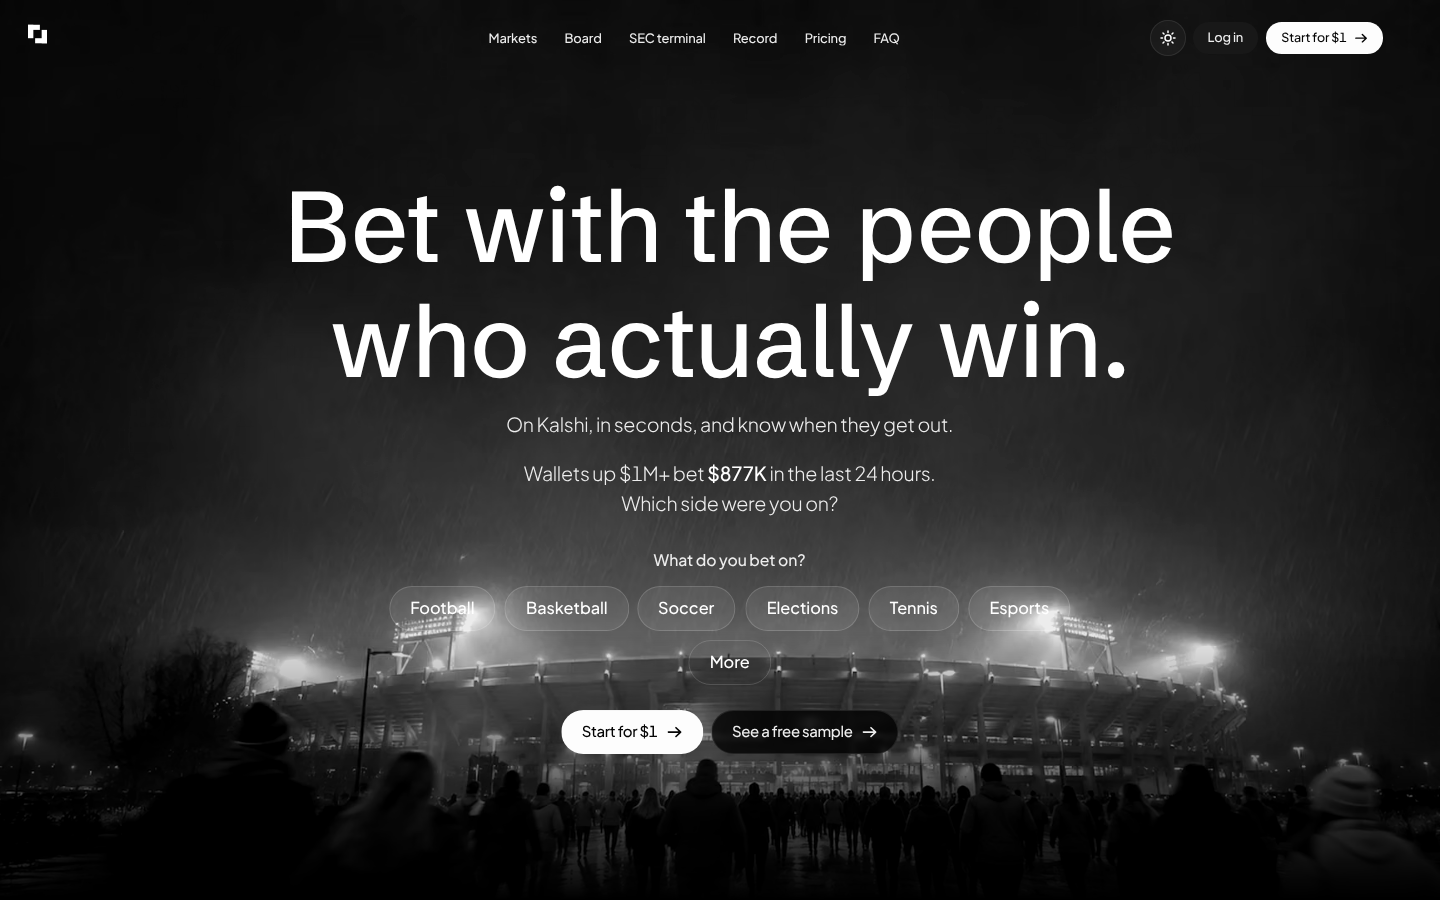
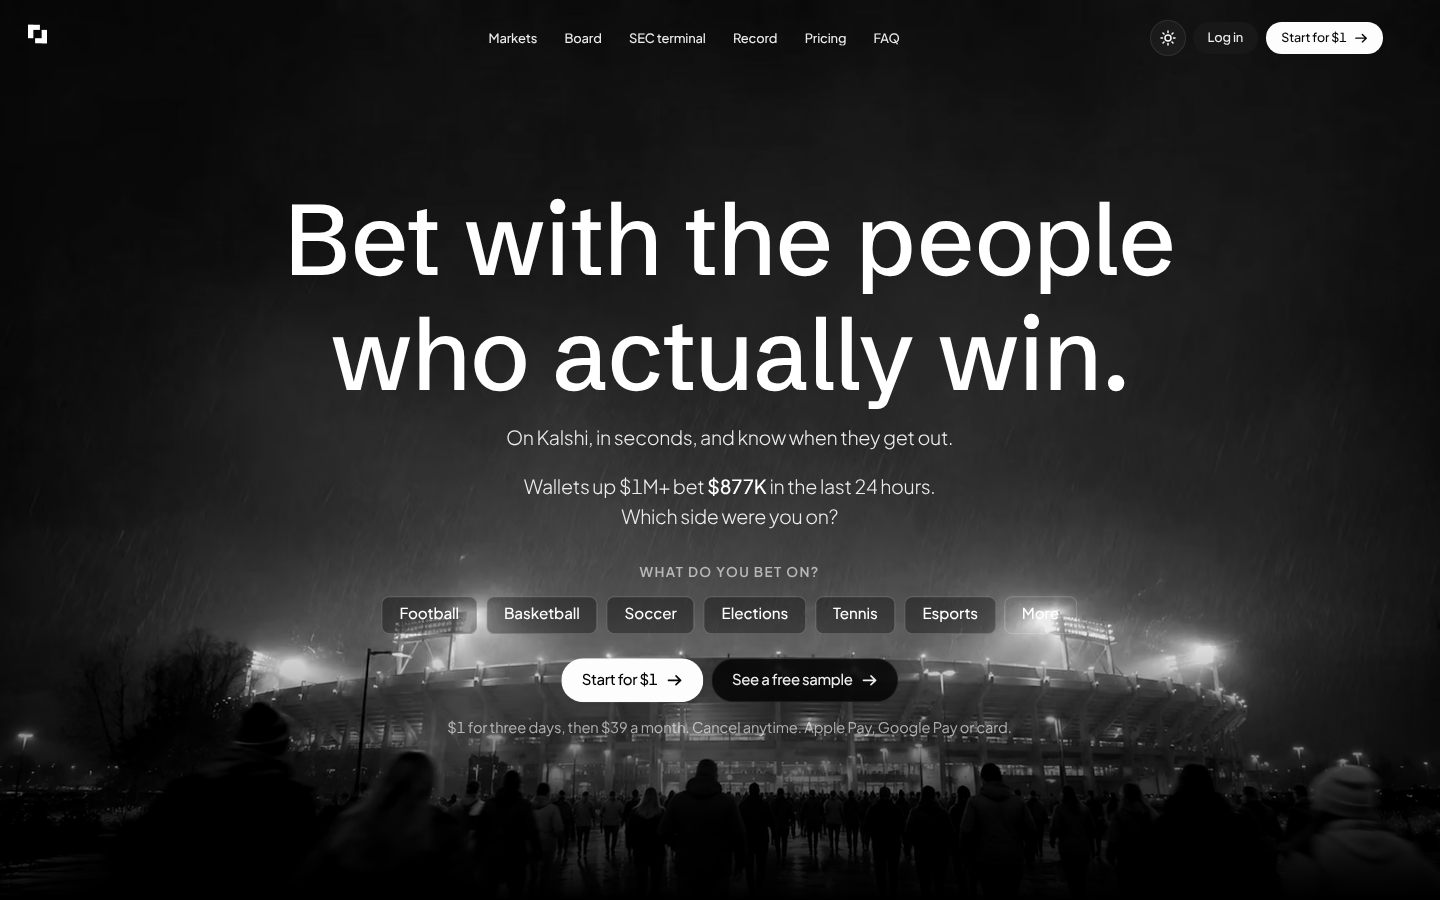
Conversion: a shorter funnel (bet-size question retired, step count from where you came in, no exit links before paying, black-and-white photos), the price terms under the hero's Start for $1, headings always visible at rest
Claude-Session: https://claude.ai/code/session_013t6J84dbkTPdjdMU1vGwgF

Changed region(s): [[0.1875, 0.1867, 0.8125, 0.5911], [0.25, 0.6222, 0.7188, 0.84]]

diff --git a/components/brand/go/Funnel.tsx b/components/brand/go/Funnel.tsx
@@ -30,8 +30,9 @@ const ORDER: Step[] = ["hook", "cats", "where", "size", "building", "aha", "payw
 /** The steps with the picture side (a photo and a live bet beside the question). */
 const ART: Step[] = ["hook", "where", "size", "paywall", "checkout"];
 /** The steps before paying, as the header counts them ("building" plays by itself and isn't a step). */
-const PRE: Step[] = ["hook", "cats", "where", "size", "aha", "paywall", "checkout"];
-export const BACK: Partial<Record<Step, Step>> = { cats: "hook", where: "cats", size: "where", aha: "size", paywall: "aha", checkout: "paywall" };
+// The steps before paying, as the visitor sees them (the bet-size question is retired: its answer was never used).
+const PRE: Step[] = ["hook", "cats", "where", "aha", "paywall", "checkout"];
+export const BACK: Partial<Record<Step, Step>> = { cats: "hook", where: "cats", size: "where", aha: "where", paywall: "aha", checkout: "paywall" };
 const KEY = "insidir_go";
 
 interface Answers { cats: CategorySlug[]; where: Where | null; size: Size | null; remind: boolean; /** Where to land at the end (a check they paid from). */ next?: string | null }
@@ -107,6 +108,8 @@ export function Funnel({ initial, start, now, elementsUrl, signedIn, ageConfirme
   bg: ReactNode;
 }) {
   const [step, setStep] = useState<Step>(start);
+  // Count only the steps this visitor will see: from where they came in (a Start button lands on the first question).
+  const shown = start === "hook" || !PRE.includes(start) ? PRE : PRE.slice(PRE.indexOf(start));
   const [a, setA] = useState<Answers>({ cats: [], where: null, size: null, remind: true });
   const [d, setD] = useState<GoData>(initial);
   const [ticks, setTicks] = useState(0);
@@ -223,7 +226,7 @@ export function Funnel({ initial, start, now, elementsUrl, signedIn, ageConfirme
           <div className="b-answers">
             {list.map(([k, l], i) => (
               <button key={k} type="button" className="b-btn b-btn-lg b-ghost" data-testid="go-answer" data-value={k} {...st(0.5 + i * 0.07)}
-                onClick={() => { if (step === "where") { put({ where: k as Where }); go("size"); } else { put({ size: k as Size }); go("building"); } }}>{l}<Arrow /></button>
+                onClick={() => { if (step === "where") { put({ where: k as Where }); go("building"); } else { put({ size: k as Size }); go("building"); } }}>{l}<Arrow /></button>
             ))}
           </div>
         </GoStage>
@@ -320,7 +323,7 @@ export function Funnel({ initial, start, now, elementsUrl, signedIn, ageConfirme
       {/* The header: the mark in the middle, the step count on the right (before paying; after, it's account setup). */}
       <header className="b-go-top" aria-hidden="true">
         <span className="b-go-top__mark"><Mark /></span>
-        {PRE.includes(step) ? <span className="b-go-top__n">Step {PRE.indexOf(step) + 1} of {PRE.length}</span> : null}
+        {shown.includes(step) ? <span className="b-go-top__n">Step {shown.indexOf(step) + 1} of {shown.length}</span> : null}
       </header>
       <div className="b-go-bar" role="progressbar" aria-label="Your progress" aria-valuemin={1} aria-valuemax={ORDER.length} aria-valuenow={ORDER.indexOf(step) + 1}
         aria-valuetext={`Step ${ORDER.indexOf(step) + 1} of ${ORDER.length}`} data-testid="go-progress"><span style={{ transform: `scaleX(${progress})` }} /></div>
@@ -343,7 +346,8 @@ export function Funnel({ initial, start, now, elementsUrl, signedIn, ageConfirme
           <div className="b-go-main">{body}</div>
         </div>
       ) : <div key={step} style={{ position: "relative", zIndex: 2 }}>{body}</div>}
-      <div style={{ position: "relative", zIndex: 2 }}><BrandFoot inline /></div>
+      {/* Before paying, only the small print: no menu of ways out mid-funnel. */}
+      <div style={{ position: "relative", zIndex: 2 }} className={PRE.includes(step) ? "b-go-foot--min" : undefined}><BrandFoot inline /></div>
     </main>
   );
 }

diff --git a/qa/e2e/brand.spec.ts b/qa/e2e/brand.spec.ts
@@ -136,8 +136,6 @@ test("/go: one question per screen, the aha, paywall, the mock checkout, unlocke
   await page.getByTestId("go-next").click();
   await expect(go).toHaveAttribute("data-step", "where");
   await page.locator('[data-testid=go-answer][data-value=kalshi]').click();
-  await expect(go).toHaveAttribute("data-step", "size");
-  await page.locator('[data-testid=go-answer][data-value="25-100"]').click();
   await expect(go).toHaveAttribute("data-step", "building");
   await expect(page.getByTestId("go-ticks")).toContainText("Reading 6 millionaire wallets");
   await expect(page.getByTestId("go-ticks")).toContainText("bets in Football and Politics today");
@@ -179,7 +177,7 @@ test("/go: one question per screen, the aha, paywall, the mock checkout, unlocke
   await page.getByTestId("ping-next").click();
   await expect(go).toHaveAttribute("data-step", "follow");
   const saved = (await q<{ settings: { go: { categories: string[]; where: string; size: string }; betOn: string[]; remindBeforeCharge: boolean }; utm: Record<string, string> | null }>("select settings, utm from terminal.users where email = $1", [email]))[0]!;
-  expect(saved.settings.go).toEqual({ categories: ["football", "politics"], where: "kalshi", size: "25-100" });
+  expect(saved.settings.go).toEqual({ categories: ["football", "politics"], where: "kalshi", size: null });
   expect(saved.settings.betOn).toEqual(["nfl", "cfb", "other"]);
   expect(saved.settings.remindBeforeCharge).toBe(true);
   expect(saved.utm).toMatchObject({ utm_source: "e2e", utm_campaign: "brand" });

diff --git a/components/brand/ScrollReveal.tsx b/components/brand/ScrollReveal.tsx
@@ -1,6 +1,7 @@
 "use client";
 /* More scroll motion, on top of the stages' own entrances (StageMotion, ScrollFx), progressive enhancement only:
- *   - panels, rows, tiles, questions and section headings below the fold rise in one after another as they enter
+ *   - panels, rows, tiles and questions below the fold rise in one after another as they enter (headings never hide:
+ *     the page reads in full at rest, qa/e2e/final.spec.ts)
  *     (elements already on screen at load are never hidden, so nothing flashes);
  *   - the first stage's words drift up and fade as you scroll past them, its photo slowly zooms;
  *   - every other stage photo drifts a little slower than the page (parallax);
@@ -11,7 +12,6 @@ import { useEffect } from "react";
 const TARGETS = [
   ".b-stage:not([data-first]) .b-glass",
   ".b-stage:not([data-first]) .b-rows > li",
-  ".b-stage:not([data-first]) .b-head",
   ".b-stage:not([data-first]) details",
   ".b-stage:not([data-first]) .b-ctas",
   ".s-cards > *",

diff --git a/app/brand.css b/app/brand.css
@@ -1659,3 +1659,9 @@ main[data-testid="landing"] .b-pill { border-radius: 999px; font-weight: 500; le
 .fr-nums div:last-child { border-bottom: 0; padding-bottom: 0; }
 .fr-nums dd { margin: 0; color: var(--ink); font-size: 28px; font-weight: 600; letter-spacing: -0.03em; line-height: 1.1; }
 .fr-nums dt { color: var(--dim); font-size: 13px; }
+
+/* The funnel: black and white photos like the rest of the site; before paying, the footer is the small print only. */
+.b-go img { filter: grayscale(1) contrast(1.08); }
+.b-go-foot--min .b-foot nav { display: none; }
+.b-hero-terms { margin: calc(14 * var(--u)) 0 0; color: rgba(255, 255, 255, .78); text-shadow: 0 1px 12px rgba(0, 0, 0, .9); font-size: calc(13 * var(--u)); letter-spacing: -0.1px; text-align: center; }
+@media (max-width: 760px) { .b-hero-terms { font-size: 12.5px; padding: 0 20px; } }

diff --git a/components/brand/landing/Landing.tsx b/components/brand/landing/Landing.tsx
@@ -50,6 +50,7 @@ function Hero({ d }: { d: Pick<LandingData, "pulse"> }) {
           <Pill href="/go?step=cats" delay={0.9} data-testid="hero-start" data-checkout="hero">Start for $1</Pill>
           <Pill href="#free" kind="ghost" delay={0.97} data-testid="hero-sample">See a free sample</Pill>
         </div>
+        <p className="b-hero-terms" data-m="quiet" style={{ "--d": "1.05s" } as CSSProperties} data-testid="hero-terms">{STAGES.pricingSub} Apple Pay, Google Pay or card.</p>
       </div>
     </Stage>
   );
